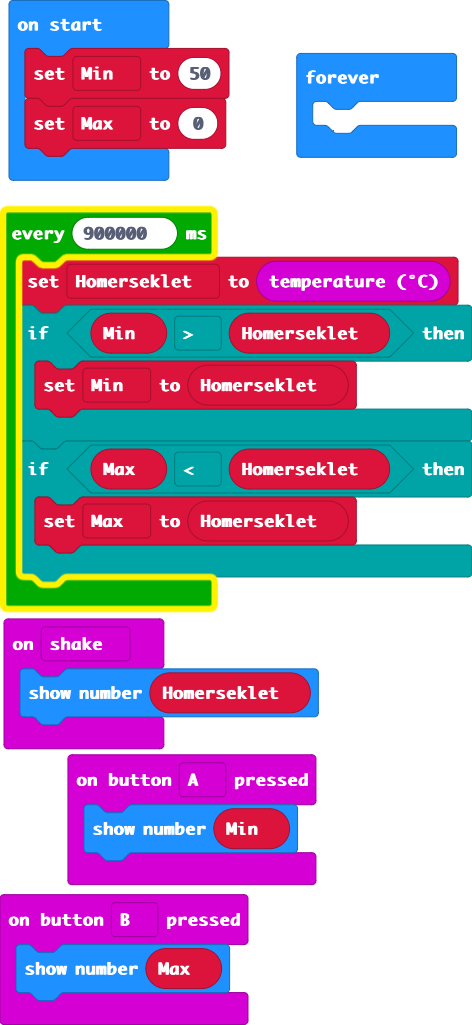
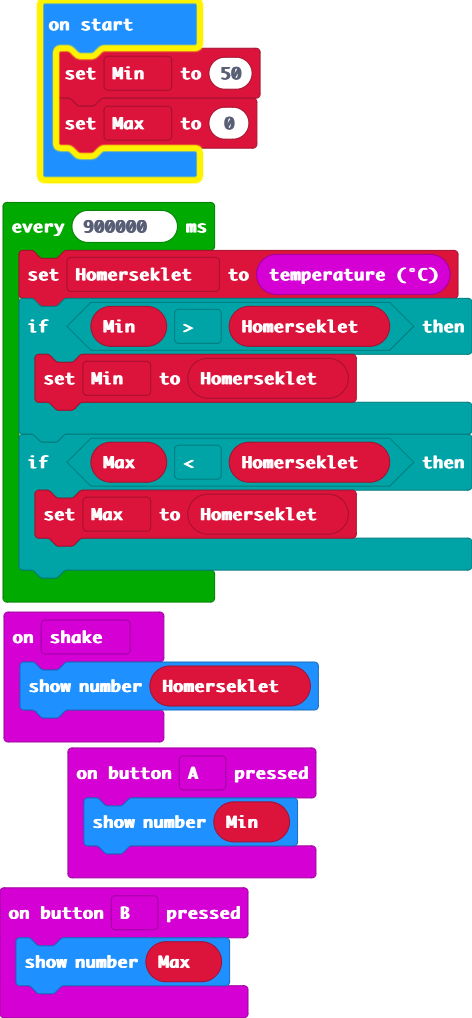
Update main.blocks, main.ts

diff --git a/main.ts b/main.ts
@@ -12,9 +12,6 @@ let Max = 0
 let Min = 0
 Min = 50
 Max = 0
-basic.forever(function () {
-	
-})
 loops.everyInterval(900000, function () {
     Homerseklet = input.temperature()
     if (Min > Homerseklet) {
